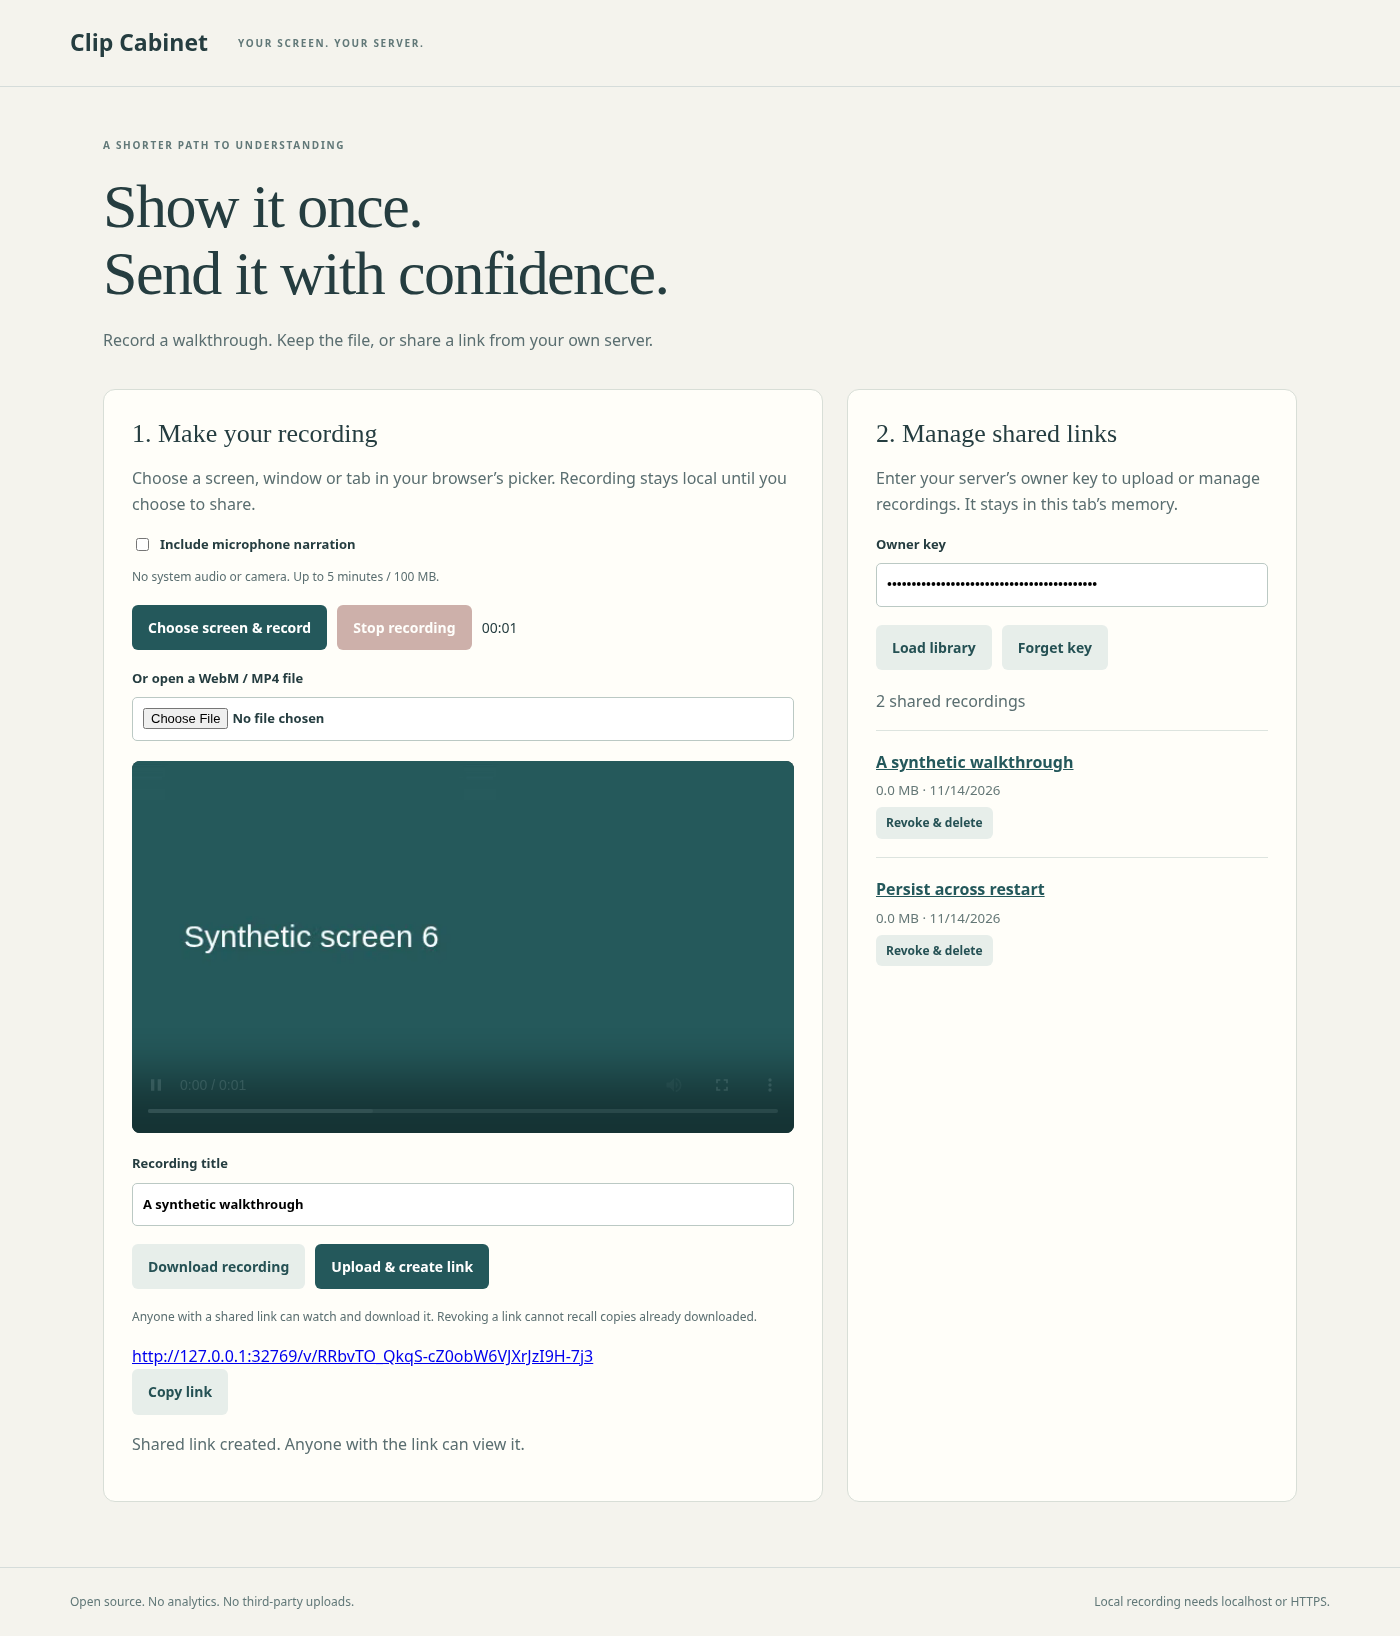
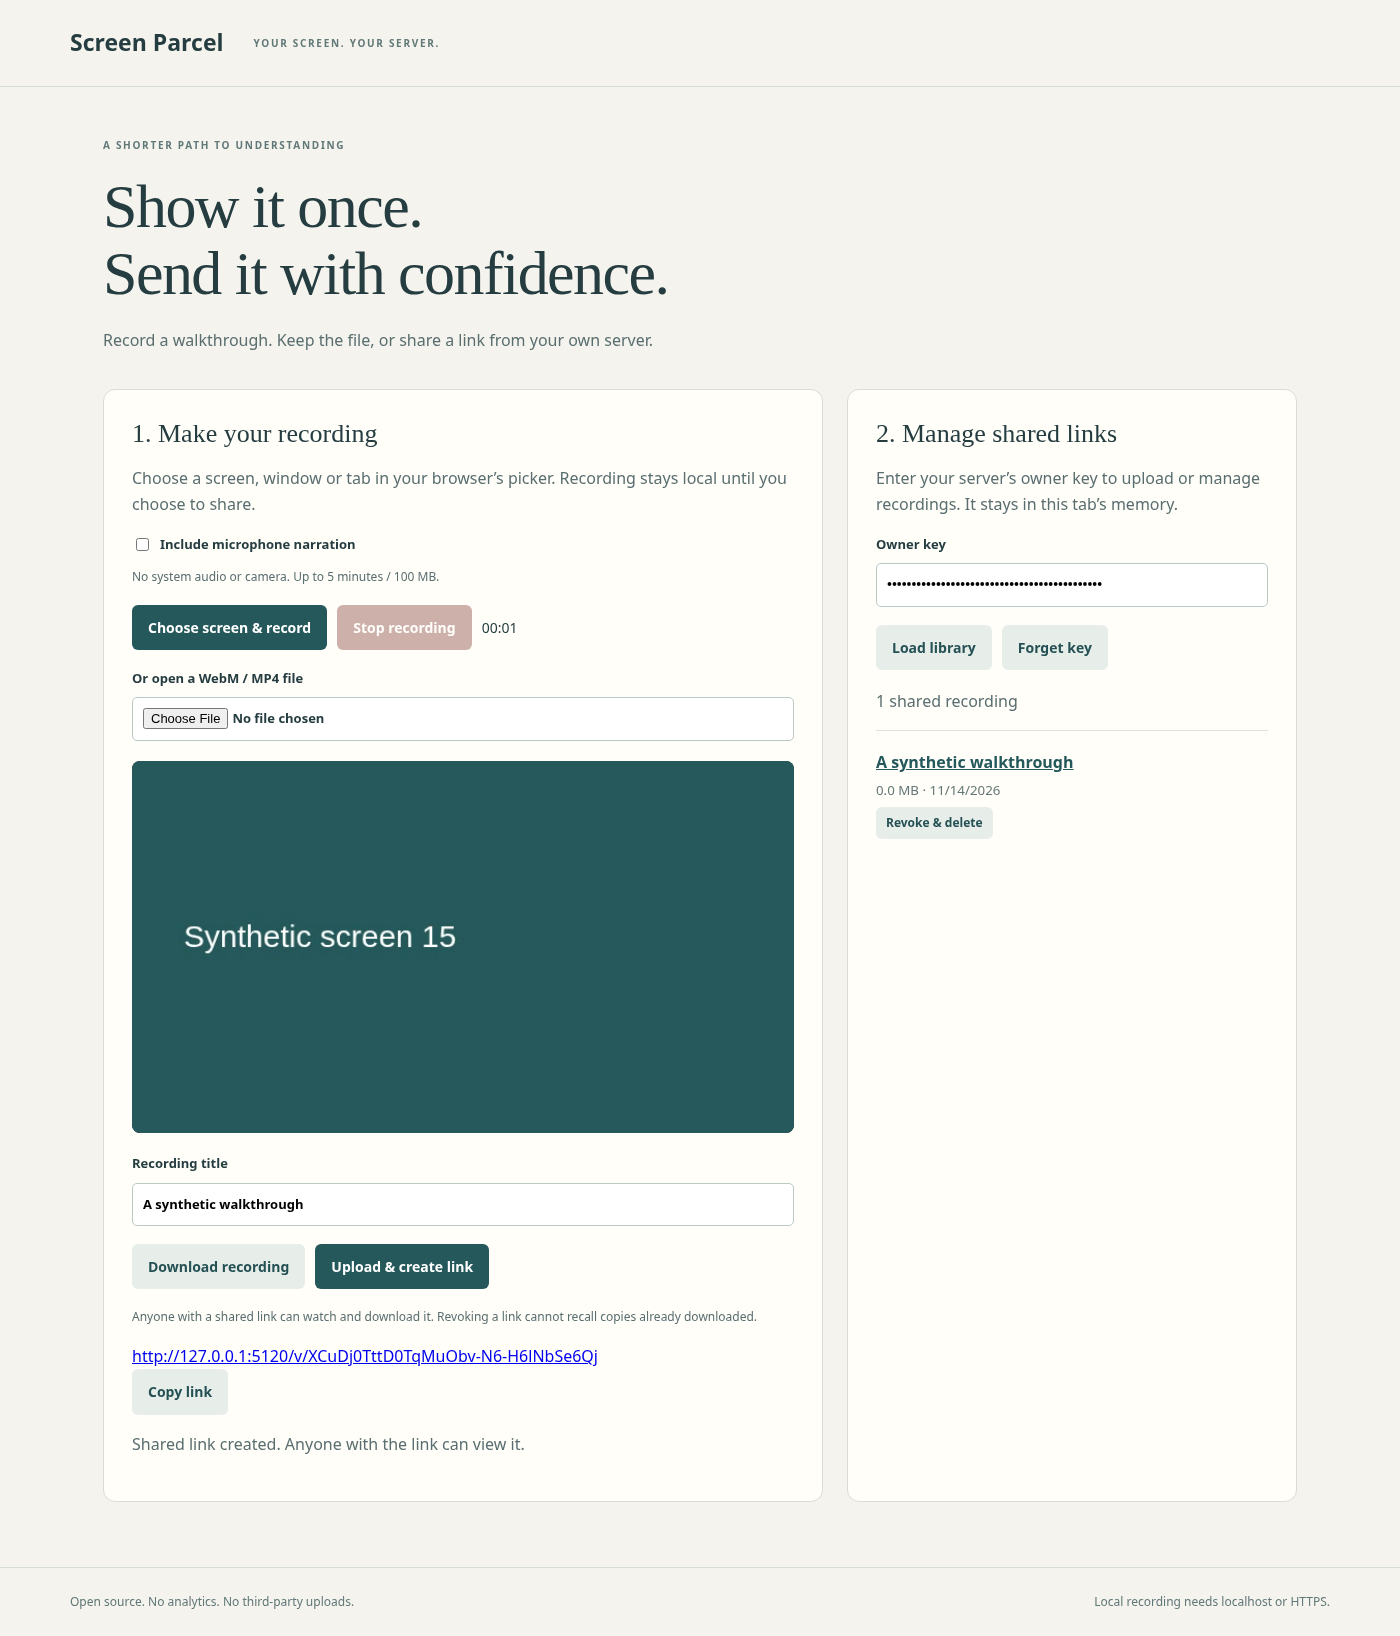
Rename product to Screen Parcel and refresh visual identity (#1)

diff --git a/templates/index.html b/templates/index.html
@@ -1,1 +1,1 @@
-<!doctype html><html lang="en"><head><meta charset="utf-8"><meta name="viewport" content="width=device-width,initial-scale=1"><title>Clip Cabinet — show what you mean</title><link rel="stylesheet" href="/static/style.css"></head><body><header><a href="/">Clip Cabinet</a><span>YOUR SCREEN. YOUR SERVER.</span></header><main><section class="intro"><p class="eyebrow">A SHORTER PATH TO UNDERSTANDING</p><h1>Show it once.<br>Send it with confidence.</h1><p>Record a walkthrough. Keep the file, or share a link from your own server.</p></section><div class="columns"><section class="panel"><h2>1. Make your recording</h2><p>Choose a screen, window or tab in your browser’s picker. Recording stays local until you choose to share.</p><label class="check"><input id="microphone" type="checkbox"> Include microphone narration</label><p class="small">No system audio or camera. Up to 5 minutes / 100 MB.</p><div class="actions"><button id="start">Choose screen & record</button><button id="stop" disabled class="danger">Stop recording</button><output id="timer">00:00</output></div><label class="file">Or open a WebM / MP4 file<input id="file" type="file" accept="video/webm,video/mp4"></label><video id="preview" controls playsinline hidden></video><div id="recorded" hidden><label>Recording title<input id="title" maxlength="120" placeholder="A quick walkthrough"></label><div class="actions"><a id="download" class="button quiet" download="recording.webm">Download recording</a><button id="publish">Upload & create link</button></div><p class="small">Anyone with a shared link can watch and download it. Revoking a link cannot recall copies already downloaded.</p><p id="shared" hidden><a id="sharelink" target="_blank" rel="noreferrer"></a><button id="copy" class="quiet">Copy link</button></p></div><p id="status" role="status" aria-live="polite">Ready when you are.</p></section><section class="panel library"><h2>2. Manage shared links</h2><p>Enter your server’s owner key to upload or manage recordings. It stays in this tab’s memory.</p><label>Owner key<input id="key" type="password" autocomplete="off" placeholder="Your server’s secret"></label><div class="actions"><button id="connect" class="quiet">Load library</button><button id="forget" class="quiet">Forget key</button></div><p id="library-status" role="status"></p><ul id="library"></ul></section></div></main><footer>Open source. No analytics. No third-party uploads. <span>Local recording needs localhost or HTTPS.</span></footer><script src="/static/app.js" defer></script></body></html>
+<!doctype html><html lang="en"><head><meta charset="utf-8"><meta name="viewport" content="width=device-width,initial-scale=1"><title>Screen Parcel — show what you mean</title><link rel="stylesheet" href="/static/style.css"></head><body><header><a href="/">Screen Parcel</a><span>YOUR SCREEN. YOUR SERVER.</span></header><main><section class="intro"><p class="eyebrow">A SHORTER PATH TO UNDERSTANDING</p><h1>Show it once.<br>Send it with confidence.</h1><p>Record a walkthrough. Keep the file, or share a link from your own server.</p></section><div class="columns"><section class="panel"><h2>1. Make your recording</h2><p>Choose a screen, window or tab in your browser’s picker. Recording stays local until you choose to share.</p><label class="check"><input id="microphone" type="checkbox"> Include microphone narration</label><p class="small">No system audio or camera. Up to 5 minutes / 100 MB.</p><div class="actions"><button id="start">Choose screen & record</button><button id="stop" disabled class="danger">Stop recording</button><output id="timer">00:00</output></div><label class="file">Or open a WebM / MP4 file<input id="file" type="file" accept="video/webm,video/mp4"></label><video id="preview" controls playsinline hidden></video><div id="recorded" hidden><label>Recording title<input id="title" maxlength="120" placeholder="A quick walkthrough"></label><div class="actions"><a id="download" class="button quiet" download="recording.webm">Download recording</a><button id="publish">Upload & create link</button></div><p class="small">Anyone with a shared link can watch and download it. Revoking a link cannot recall copies already downloaded.</p><p id="shared" hidden><a id="sharelink" target="_blank" rel="noreferrer"></a><button id="copy" class="quiet">Copy link</button></p></div><p id="status" role="status" aria-live="polite">Ready when you are.</p></section><section class="panel library"><h2>2. Manage shared links</h2><p>Enter your server’s owner key to upload or manage recordings. It stays in this tab’s memory.</p><label>Owner key<input id="key" type="password" autocomplete="off" placeholder="Your server’s secret"></label><div class="actions"><button id="connect" class="quiet">Load library</button><button id="forget" class="quiet">Forget key</button></div><p id="library-status" role="status"></p><ul id="library"></ul></section></div></main><footer>Open source. No analytics. No third-party uploads. <span>Local recording needs localhost or HTTPS.</span></footer><script src="/static/app.js" defer></script></body></html>

diff --git a/templates/watch.html b/templates/watch.html
@@ -1,1 +1,1 @@
-<!doctype html><html lang="en"><head><meta charset="utf-8"><meta name="viewport" content="width=device-width,initial-scale=1"><meta name="robots" content="noindex,nofollow"><title>{{ clip.title }} · Clip Cabinet</title><link rel="stylesheet" href="/static/style.css"></head><body><header><a href="/">Clip Cabinet</a><span>A SHARED RECORDING</span></header><main class="watch"><p class="eyebrow">SHOW, DON’T EXPLAIN</p><h1>{{ clip.title }}</h1><video controls playsinline preload="metadata" src="/media/{{ clip.id }}"></video><p><a class="button" href="/media/{{ clip.id }}?download=1">Download recording</a></p><p class="small">This link is available to anyone who has it. The owner can revoke future access.</p></main></body></html>
+<!doctype html><html lang="en"><head><meta charset="utf-8"><meta name="viewport" content="width=device-width,initial-scale=1"><meta name="robots" content="noindex,nofollow"><title>{{ clip.title }} · Screen Parcel</title><link rel="stylesheet" href="/static/style.css"></head><body><header><a href="/">Screen Parcel</a><span>A SHARED RECORDING</span></header><main class="watch"><p class="eyebrow">SHOW, DON’T EXPLAIN</p><h1>{{ clip.title }}</h1><video controls playsinline preload="metadata" src="/media/{{ clip.id }}"></video><p><a class="button" href="/media/{{ clip.id }}?download=1">Download recording</a></p><p class="small">This link is available to anyone who has it. The owner can revoke future access.</p></main></body></html>

diff --git a/templates/error.html b/templates/error.html
@@ -1,1 +1,1 @@
-<!doctype html><html lang="en"><head><meta charset="utf-8"><meta name="viewport" content="width=device-width,initial-scale=1"><title>Recording unavailable</title><link rel="stylesheet" href="/static/style.css"></head><body><main><h1>That didn’t work.</h1><p>{{ message }}</p><a href="/">Back to Clip Cabinet</a></main></body></html>
+<!doctype html><html lang="en"><head><meta charset="utf-8"><meta name="viewport" content="width=device-width,initial-scale=1"><title>Recording unavailable</title><link rel="stylesheet" href="/static/style.css"></head><body><main><h1>That didn’t work.</h1><p>{{ message }}</p><a href="/">Back to Screen Parcel</a></main></body></html>

diff --git a/README.md b/README.md
@@ -1,6 +1,6 @@
 <div align="center">
 
-![Clip Cabinet — show it once, keep the file, share on your terms](docs/assets/banner.svg)
+![Screen Parcel — show it once, keep the file, share on your terms](docs/assets/banner.svg)
 
 ### Open-source alternative to Loom for screen recording and self-hosted sharing
 
@@ -14,7 +14,7 @@ Record a walkthrough. Keep a local copy. Share a link you can revoke.
 
 > **Prepared preview, not a launched service.** The local recording and sharing workflow passes automated acceptance with synthetic video. Real screen-picker interaction, microphone hardware and hosted HTTPS still need manual verification. There is no live public demo yet.
 
-![Clip Cabinet recording workspace with preview, local download and revocable sharing controls](docs/assets/studio.png)
+![Screen Parcel recording workspace with preview, local download and revocable sharing controls](docs/assets/studio.png)
 
 *Actual application screenshot from container acceptance. The video is a clearly labeled synthetic test recording, not customer footage.*
 
@@ -65,13 +65,13 @@ The named volume retains your library. The container runs as UID 10001. See the 
 
 Recipients see a title, playback controls and a download. They do not need your owner key. Viewer links are unlisted bearer links, not authenticated team access.
 
-![Clip Cabinet viewer with video playback and download](docs/assets/viewer.png)
+![Screen Parcel viewer with video playback and download](docs/assets/viewer.png)
 
 [View the mobile layout](docs/assets/mobile.png) · [Read the recording and storage limits](docs/operations.md#run-locally)
 
 ## What this replaces—and what it doesn't
 
-Clip Cabinet targets Loom's **record → preview → share a link** workflow. It is a smaller, self-hosted tool, with no claim of feature parity or affiliation.
+Screen Parcel targets Loom's **record → preview → share a link** workflow. It is a smaller, self-hosted tool, with no claim of feature parity or affiliation.
 
 | Included | Not included |
 |---|---|

diff --git a/HANDOFF.md b/HANDOFF.md
@@ -1,4 +1,4 @@
-# Clip Cabinet — owner-controlled launch handoff
+# Screen Parcel — owner-controlled launch handoff
 
 Prepared local candidate, not released. Open-source alternative to Loom for browser screen recording, local playback/download and single-owner, self-hosted revocable video links. MIT licensed. No camera overlay, editing, transcription, comments, teams or system-audio capture.
 
@@ -48,7 +48,7 @@ Record browser/OS, the picker choice, whether video and microphone passed, and a
 
 ## Launch form and exact next action
 
-[Prefilled Clip Cabinet repository form](https://github.com/new?name=clip-cabinet&description=Open-source%20alternative%20to%20Loom%20for%20browser%20screen%20recording%20and%20self-hosted%20video%20sharing.%20Record%2C%20preview%2C%20download%2C%20and%20share%20with%20revocable%20links.%20MIT%20licensed.&visibility=public)
+[Prefilled Screen Parcel repository form](https://github.com/new?name=clip-cabinet&description=Open-source%20alternative%20to%20Loom%20for%20browser%20screen%20recording%20and%20self-hosted%20video%20sharing.%20Record%2C%20preview%2C%20download%2C%20and%20share%20with%20revocable%20links.%20MIT%20licensed.&visibility=public)
 
 Owner: anshuman-pandey. Public repository named clip-cabinet. Leave README/license/gitignore initialization unchecked; the package includes them.
 

diff --git a/IDENTITY.md b/IDENTITY.md
@@ -1,0 +1,7 @@
+# Product identity migration
+
+Product name: **Screen Parcel**. Intended repository name: `screen-parcel`.
+
+The GitHub integration cannot rename repositories (HTTP 403). Until the owner saves the new name at https://github.com/anshuman-pandey/clip-cabinet/settings, the current repository URL and source directory remain valid. Do not create a replacement repository: rename the existing one to preserve issues, stars and history.
+
+Existing storage keys, database paths, Docker volume names and backup schemas remain unchanged. This avoids losing saved user data during a branding-only update. After renaming, update the Git remote and documentation URLs; GitHub normally redirects the old repository URL. Existing published releases retain their original names until explicitly updated.

diff --git a/docs/operations.md b/docs/operations.md
@@ -1,4 +1,4 @@
-# Clip Cabinet
+# Screen Parcel
 
 Record a short screen walkthrough, preview it, download it, and optionally share it from your own server. An open-source, single-owner alternative to **Loom** for the recording-and-link workflow. MIT licensed; no third-party analytics or video storage. This is a local candidate, not a publicly released service.
 
